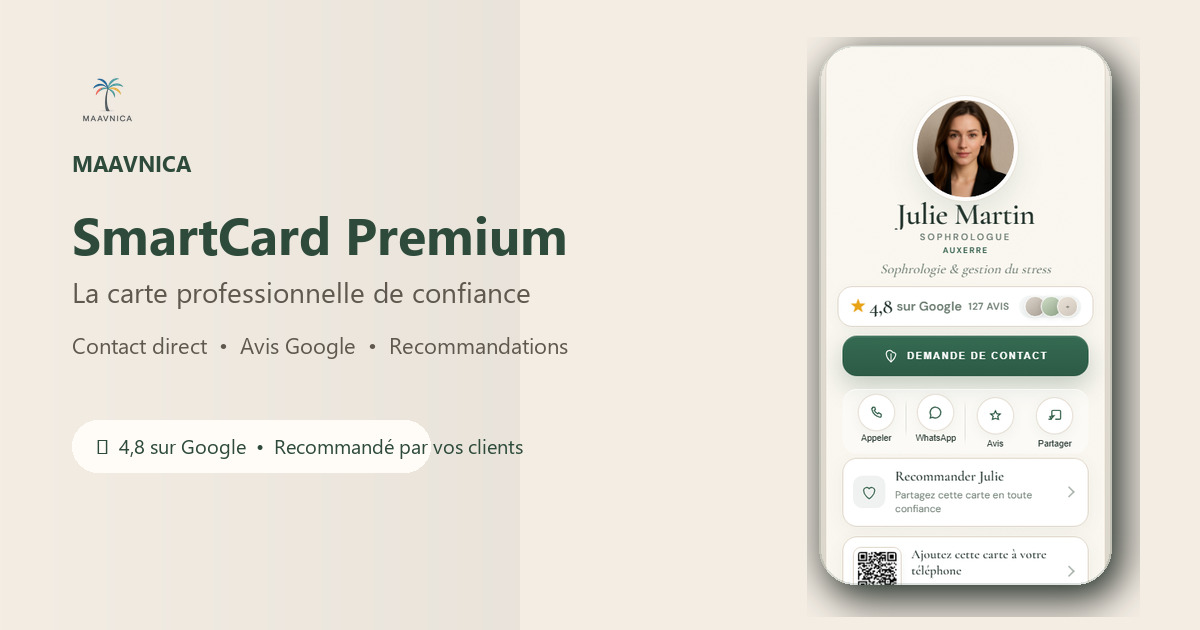
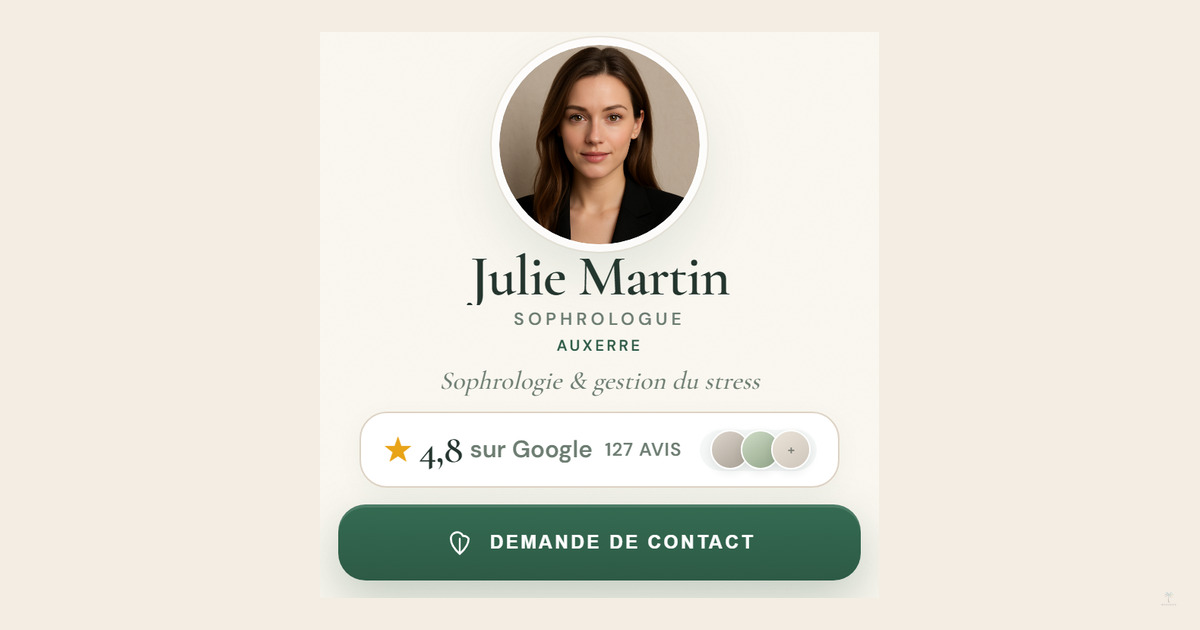
Ajuste les aperçus OG SmartCard en V2 orientée produit

diff --git a/backend/static/public-card/public-card-runtime.js b/backend/static/public-card/public-card-runtime.js
@@ -252,7 +252,7 @@
      */
     function buildOgImageUrl(card, slug) {
       var slugL = String(slug || "").trim().toLowerCase();
-      var defaultImage = `${baseUrl}/static/og-default.jpg?v=3`;
+      var defaultImage = `${baseUrl}/static/og-default.jpg?v=4`;
       if (!slugL) return defaultImage;
       var v = "0";
       if (card && card.updated_at) {

diff --git a/backend/static/public-card/shared.js b/backend/static/public-card/shared.js
@@ -572,7 +572,7 @@
      */
     function buildOgImageUrl(card, slug) {
       var slugL = String(slug || "").trim().toLowerCase();
-      var defaultImage = `${baseUrl}/static/og-default.jpg?v=3`;
+      var defaultImage = `${baseUrl}/static/og-default.jpg?v=4`;
       if (!slugL) return defaultImage;
       var v = "0";
       if (card && card.updated_at) {

diff --git a/tools/regenerate_og.py b/tools/regenerate_og.py
@@ -23,6 +23,7 @@ sys.path.insert(0, str(BACKEND))
 from PIL import Image  # noqa: E402
 
 from app.og_capture import (  # noqa: E402
+    OG_DEFAULT_PATH,
     composite_og_canvas,
     css_color_to_rgb,
     ensure_og_dirs,
@@ -33,8 +34,9 @@ from app.og_capture import (  # noqa: E402
 from app.models import Card  # noqa: E402
 from app.database import SessionLocal  # noqa: E402
 
-# Sélecteurs zone à forte valeur (photo → CTA principal)
+# Sélecteurs zone haute valeur V2 (photo → CTA principal, sans chrome téléphone)
 _VALUE_ZONE_SELECTORS = [
+    ".wellness-avatar-stage",
     ".hero-avatar",
     "#person-name",
     "#hero-job-title",
@@ -43,19 +45,19 @@ _VALUE_ZONE_SELECTORS = [
     "#hero-google-badge-compact",
     "#hero-google-badge",
     ".hero-google-badge-wrap",
-    "#btn-primary-demande-contact",
+    ".wellness-google-rating-card",
+    ".wellness-google-inner",
 ]
 
 _CROP_CLIP_JS = """
-(slug) => {
-  const shell = document.querySelector(".phone-shell");
-  if (!shell) return null;
+() => {
+  const inner = document.querySelector(".phone-inner");
+  const cta = document.getElementById("btn-primary-demande-contact");
+  if (!inner || !cta) return null;
 
   const selectors = %s;
-  const shellRect = shell.getBoundingClientRect();
-  let top = shellRect.bottom;
-  let bottom = shellRect.top;
-  let found = false;
+  const innerRect = inner.getBoundingClientRect();
+  const ctaRect = cta.getBoundingClientRect();
 
   const visible = (el) => {
     if (!el) return false;
@@ -65,37 +67,44 @@ _CROP_CLIP_JS = """
     return r.width > 2 && r.height > 2;
   };
 
+  let top = Infinity;
+  let left = Infinity;
+  let right = -Infinity;
+  let found = false;
+
   for (const sel of selectors) {
     document.querySelectorAll(sel).forEach((el) => {
       if (!visible(el)) return;
       const r = el.getBoundingClientRect();
       found = true;
       top = Math.min(top, r.top);
-      bottom = Math.max(bottom, r.bottom);
+      left = Math.min(left, r.left);
+      right = Math.max(right, r.right);
     });
   }
 
-  const padTop = 14;
-  const padBottom = 18;
-  const padX = 10;
+  const padTop = 8;
+  const padBottom = 12;
+  const padX = 12;
 
   if (!found) {
-    const h = Math.min(shellRect.height, shellRect.width * 1.55);
     return {
-      x: Math.max(0, shellRect.left - padX),
-      y: Math.max(0, shellRect.top),
-      width: shellRect.width + padX * 2,
-      height: h,
+      x: Math.max(0, innerRect.left + padX),
+      y: Math.max(0, innerRect.top + padTop),
+      width: Math.max(80, innerRect.width - padX * 2),
+      height: Math.max(80, ctaRect.bottom - innerRect.top + padBottom),
     };
   }
 
-  top = Math.max(shellRect.top, top - padTop);
-  bottom = Math.min(shellRect.bottom, bottom + padBottom);
+  top = Math.max(innerRect.top, top - padTop);
+  const bottom = Math.min(innerRect.bottom, ctaRect.bottom + padBottom);
+  left = Math.max(innerRect.left, left - padX);
+  right = Math.min(innerRect.right, right + padX);
 
   return {
-    x: Math.max(0, shellRect.left - padX),
+    x: Math.max(0, left),
     y: Math.max(0, top),
-    width: shellRect.width + padX * 2,
+    width: Math.max(80, right - left),
     height: Math.max(80, bottom - top),
   };
 }
@@ -110,6 +119,9 @@ _CLEANUP_DOM_JS = """
   document.getElementById("demo-banner-shell")?.remove();
   document.querySelectorAll(".demo-marketing").forEach((el) => el.remove());
   document.getElementById("admin-preview-badge")?.remove();
+  document.querySelector(".notch")?.remove();
+  document.querySelector(".status-bar")?.remove();
+  document.querySelectorAll(".hero-badges, #hero-subline, #hero-reassurance, #hero-social-proof, #hero-subtitle, .hero-meta, .hero-contact-line").forEach((el) => el.remove());
 }
 """
 
@@ -236,7 +248,7 @@ def regenerate(
                         f"[og] WARN {slug}: manifest/hash ignoré ({manifest_exc})",
                         flush=True,
                     )
-                print(f"[og] OK {slug} → {out} ({len(jpeg)} bytes)", flush=True)
+                print(f"[og] OK {slug} -> {out} ({len(jpeg)} bytes)", flush=True)
                 ok += 1
             except Exception as exc:
                 print(f"[og] FAIL {slug}: {exc}", flush=True)
@@ -246,6 +258,18 @@ def regenerate(
         browser.close()
 
     return ok, fail
+
+
+def _sync_og_default_from(slug: str = "demo2") -> None:
+    """Met à jour og-default.jpg depuis une capture produit (fallback V2)."""
+    import shutil
+
+    src = og_generated_path(slug)
+    if not src.is_file():
+        print(f"[og] WARN: pas de fallback — {slug}.jpg absent", flush=True)
+        return
+    shutil.copy2(src, OG_DEFAULT_PATH)
+    print(f"[og] fallback -> {OG_DEFAULT_PATH}", flush=True)
 
 
 def main() -> int:
@@ -284,6 +308,8 @@ def main() -> int:
         return 0 if lenient else 1
 
     print(f"[og] terminé: {ok} ok, {fail} échec(s)", flush=True)
+    if not args.dry_run and "demo2" in slugs:
+        _sync_og_default_from("demo2")
     if lenient:
         return 0
     return 0 if fail == 0 else 1

diff --git a/backend/app/og_capture.py b/backend/app/og_capture.py
@@ -11,14 +11,15 @@ from typing import Any, Optional, Tuple
 
 from PIL import Image
 
-# Layout OG (validé Phase 1)
+# Layout OG V2 — produit dominant (~72 % canvas, marges réduites)
 OG_WIDTH = 1200
 OG_HEIGHT = 630
-OG_CARD_TARGET_WIDTH = 840  # ~70 % du canvas
-OG_CARD_MAX_HEIGHT = 600
-OG_BRAND_LOGO_SIZE = 28
-OG_BRAND_LOGO_OPACITY = 0.35
-OG_BRAND_LOGO_MARGIN = 24
+OG_CARD_TARGET_WIDTH = 860  # ~72 % du canvas
+OG_CARD_MAX_HEIGHT = 566  # ~90 % hauteur utile
+OG_MIN_MARGIN = 32
+OG_BRAND_LOGO_SIZE = 22
+OG_BRAND_LOGO_OPACITY = 0.30
+OG_BRAND_LOGO_MARGIN = 20
 
 APP_DIR = Path(__file__).resolve().parent
 BACKEND_DIR = APP_DIR.parent
@@ -97,15 +98,18 @@ def composite_og_canvas(
     bg_rgb: Tuple[int, int, int] = (243, 237, 228),
     logo_path: Optional[Path] = None,
 ) -> bytes:
-    """Compose la capture recadrée sur un canvas 1200×630."""
+    """Compose la capture recadrée sur un canvas 1200×630 (V2 produit)."""
     card = card_image.convert("RGBA")
-    target_w = OG_CARD_TARGET_WIDTH
-    scale = target_w / max(card.width, 1)
-    target_h = int(card.height * scale)
-    if target_h > OG_CARD_MAX_HEIGHT:
-        scale = OG_CARD_MAX_HEIGHT / max(card.height, 1)
-        target_w = int(card.width * scale)
-        target_h = OG_CARD_MAX_HEIGHT
+    max_w = min(OG_CARD_TARGET_WIDTH, OG_WIDTH - 2 * OG_MIN_MARGIN)
+    max_h = OG_HEIGHT - 2 * OG_MIN_MARGIN
+    # Priorité largeur ~72 %, puis contrainte hauteur si besoin
+    scale = max_w / max(card.width, 1)
+    target_w = max(1, int(card.width * scale))
+    target_h = max(1, int(card.height * scale))
+    if target_h > max_h:
+        scale = max_h / max(card.height, 1)
+        target_w = max(1, int(card.width * scale))
+        target_h = max_h
     card = card.resize((target_w, target_h), Image.LANCZOS)
 
     canvas = Image.new("RGB", (OG_WIDTH, OG_HEIGHT), bg_rgb)

diff --git a/backend/app/main.py b/backend/app/main.py
@@ -50,7 +50,7 @@ UPLOADS_DIR = STATIC_DIR / "uploads"
 UPLOADS_DIR.mkdir(parents=True, exist_ok=True)
 
 # Version query-string pour og-default.jpg (cache busting Facebook / Twitter)
-OG_DEFAULT_IMAGE_VERSION = "3"
+OG_DEFAULT_IMAGE_VERSION = "4"
 
 # Landing marketing (source dans le dépôt, sans dupliquer index.html dans backend/static)
 LANDING_DIR = BACKEND_DIR.parent / "landing"

diff --git a/tools/generate_og_default.py b/tools/generate_og_default.py
@@ -1,4 +1,7 @@
-"""Génère backend/static/og-default.jpg — visuel Open Graph SmartCard Premium (1200×630)."""
+"""DEPRECATED — utiliser tools/regenerate_og.py (capture produit V2).
+
+Ancien générateur bannière marketing ; conservé pour référence locale uniquement.
+"""
 from __future__ import annotations
 
 import os
